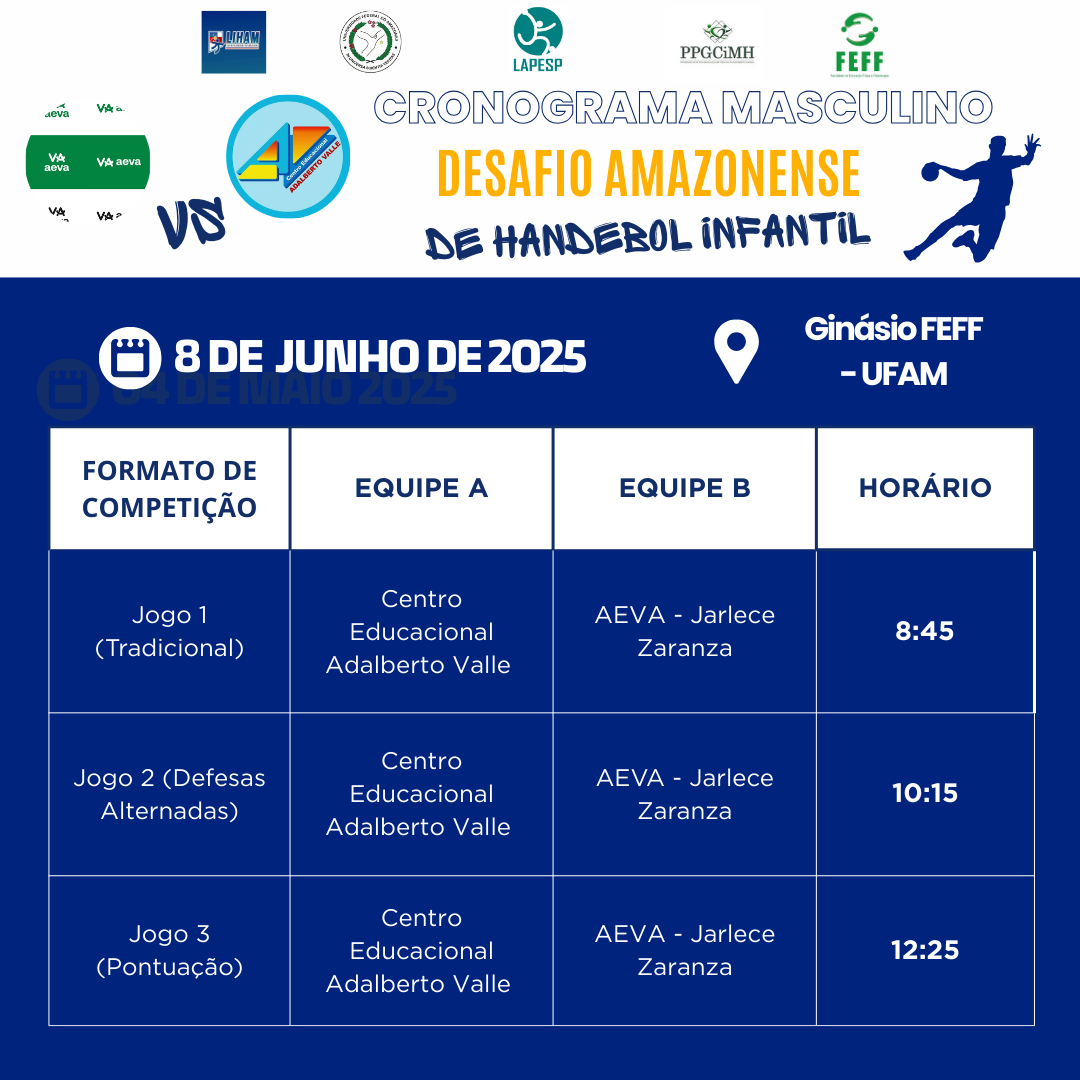
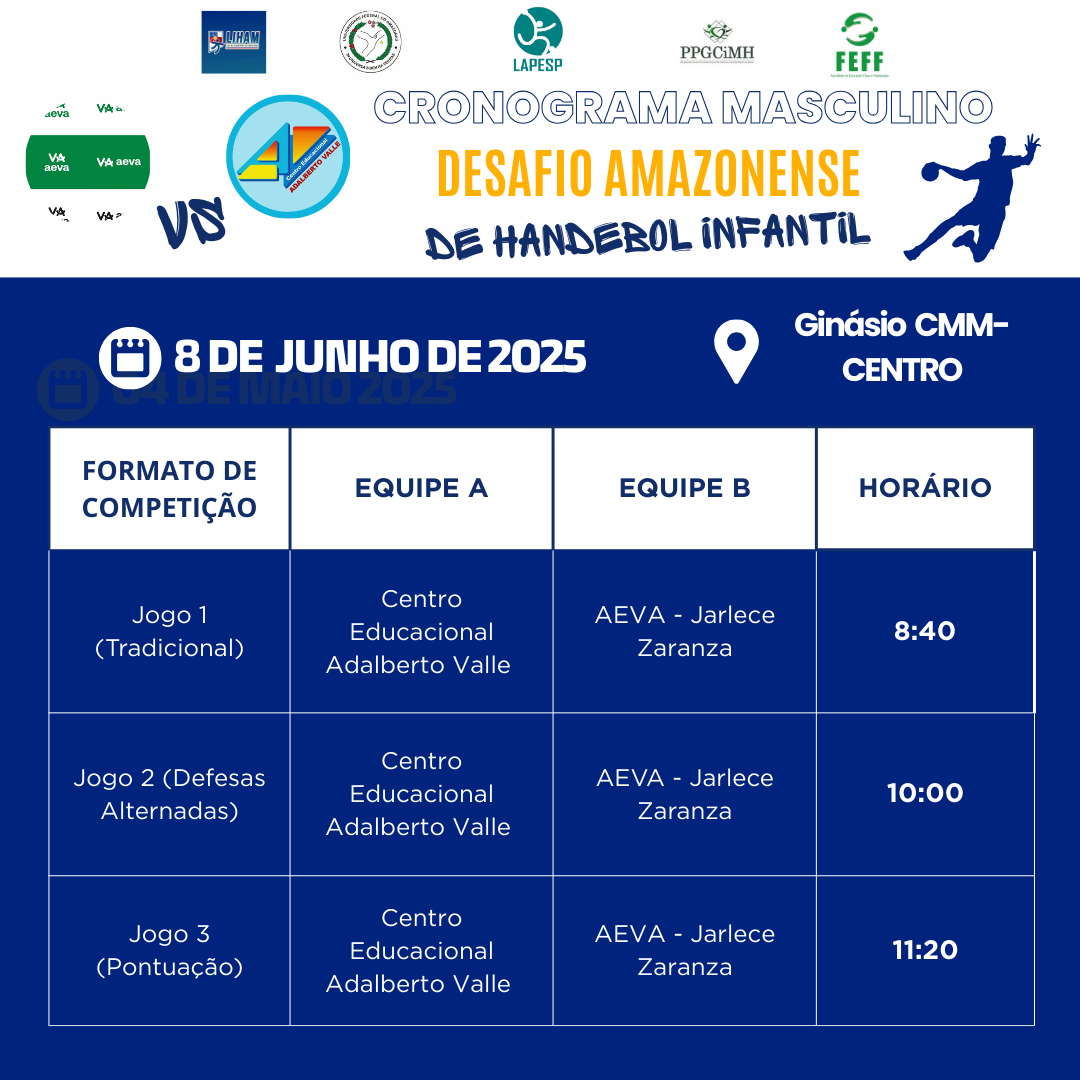
fix: Local dos jogos e tabelas atualizadas

diff --git a/pages/manchete1.html b/pages/manchete1.html
@@ -17,7 +17,7 @@
                 <p style="text-align: center;"><em>Foto: Arquivo da Liga de Handebol do Amazonas</em></p>
                 <p class="headline-description" style="margin-top: 1rem;">Manaus se prepara para receber a primeira edição do Desafio Amazonense de Handebol Infantil, competição que reunirá equipes renomadas de escolas e clubes da capital amazonense. Voltado para atletas nascidos em 2011, 2012 e 2013, o torneio promete ser um marco no desenvolvimento do handebol na região.</p>
                 <p>Fruto de uma parceria entre o Laboratório de Pedagogia do Esporte da Universidade Federal do Amazonas (LAPESP) (UFAM) e a Liga de Handebol do Amazonas (LIHAM), o Desafio visa não apenas promover a prática esportiva, mas também contribuir com pesquisas e inovações que buscam aprimorar as competições na infância. O objetivo é propor e estudar formas alternativas de formatos competitivos, focando no desenvolvimento de competições infantojuvenil. </p>
-                <p>A estreia está marcada para o dia 4 de maio de 2025, no Ginásio do IFAM, com os seguintes confrontos:</p>
+                <p>A estreia está marcada para o dia 4 de maio de 2025, no Colégio Militar de Manaus - Centro, com os seguintes confrontos:</p>
                 <ul style="text-align: left; margin-left: 1rem; margin-bottom: 1rem;">
                     <li><strong>Categoria Feminina:</strong> Rio Negro Clube vs. Liga de Santa Etelvina</li>
                     <li><strong>Categoria Masculina:</strong> Escola Prof. Nelson Alves vs. Liga de Santa Etelvina</li>
